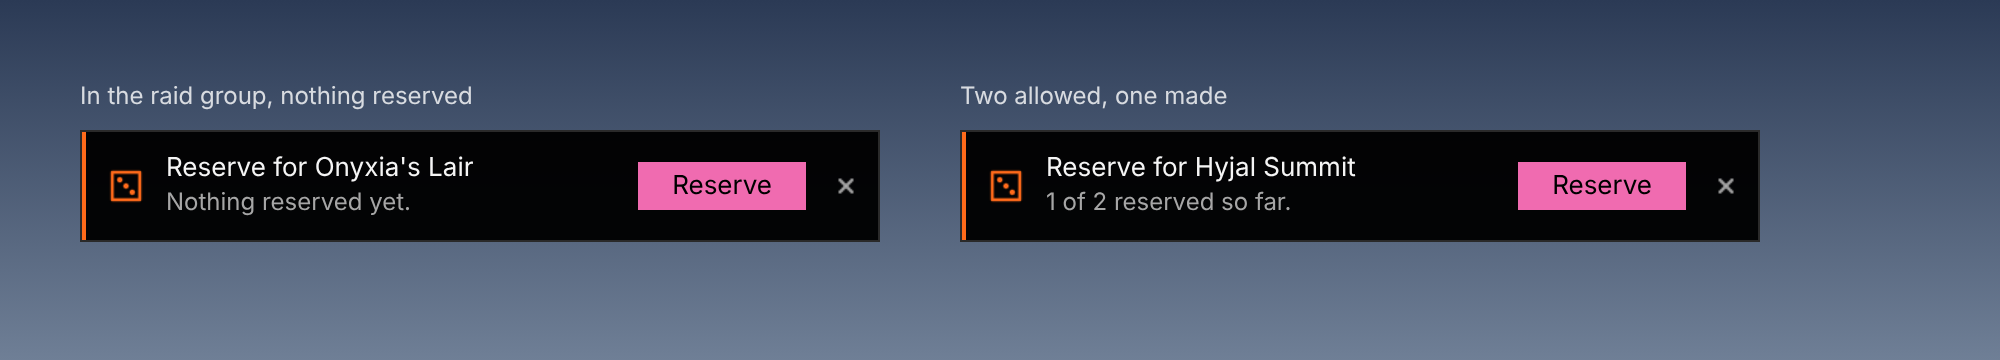
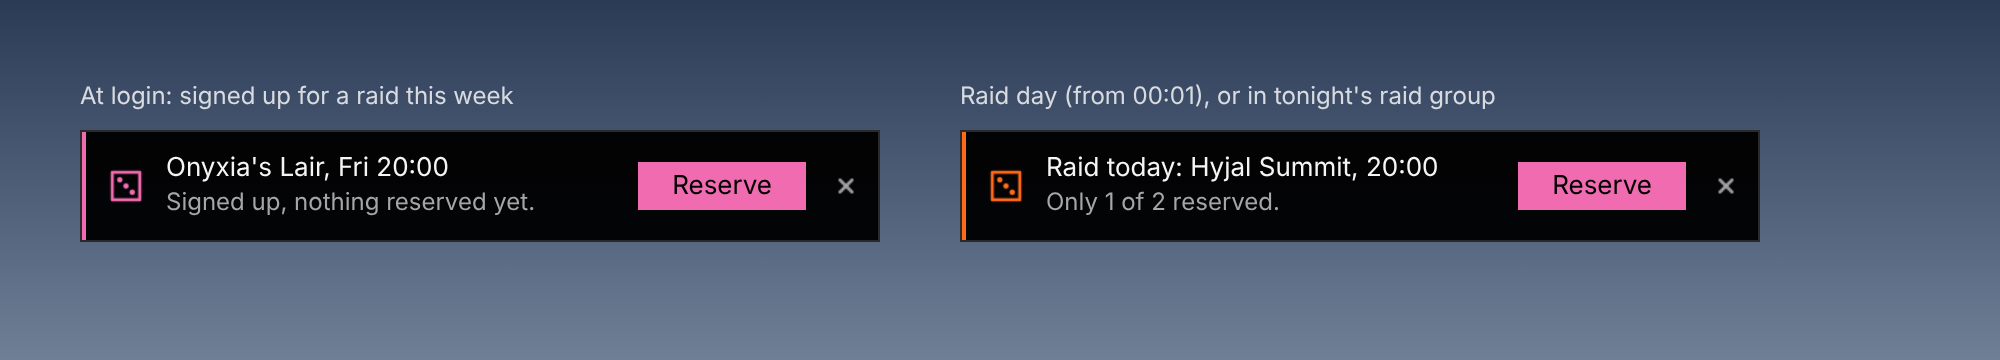
v0.9.1 (not released): two reserve reminders, at login and on raid day
Guild: a gentle one at logon when signed up for a raid without reserves,
and a stronger one on raid day / in the raid group. Owner: no sound; raid
day starts at 00:01 on the raid's day. Calm box once per login for a raid
in the next 7 days; orange box from 00:01 on raid day (signed up) or in
tonight's raid group, at login, on joining, then every 30 minutes.

Claude-Session: https://claude.ai/code/session_01A7mubGaccCgzXvJy7GP49A

diff --git a/preview/index.html b/preview/index.html
@@ -253,6 +253,8 @@
   .flightbox.remind { width: 400px; }
   .flightshot.remindshot { width: 1000px; }
   .flightbox.remind .edge { background: var(--spark); }
+  .flightbox.remind.calm .edge { background: var(--accent); }
+  .flightbox.remind.calm .fi { color: var(--accent); }
   .flightbox.remind .fi { color: var(--spark); -webkit-mask-image: var(--tex-icon-loot); mask-image: var(--tex-icon-loot); }
   .ttshot .tip { position: static; display: block; width: 330px; }
   .ttshot .cap { font: 600 12px "Chakra Petch SK", sans-serif; letter-spacing: .1em; text-transform: uppercase; color: #fff; margin-bottom: 10px; }
@@ -1061,9 +1063,9 @@ function flightShot() {
 }
 // v0.9.1 Reserve+ reminder: in a raid group for tonight's raid without (all) reserves.
 function reminderShot() {
-  const box = (title, text) => `<div class="flightbox remind"><i class="edge"></i><i class="mask fi"></i><div class="ft"><div>${title}</div><div class="dim">${text}</div></div>${btn("Reserve", "primary")}<div class="close"><i></i></div></div>`;
-  return `<div class="flightshot remindshot"><div><div class="cap">In the raid group, nothing reserved</div>${box("Reserve for Onyxia's Lair", "Nothing reserved yet.")}</div>
-    <div><div class="cap">Two allowed, one made</div>${box("Reserve for Hyjal Summit", "1 of 2 reserved so far.")}</div></div>`;
+  const box = (kind, title, text) => `<div class="flightbox remind ${kind}"><i class="edge"></i><i class="mask fi"></i><div class="ft"><div>${title}</div><div class="dim">${text}</div></div>${btn("Reserve", "primary")}<div class="close"><i></i></div></div>`;
+  return `<div class="flightshot remindshot"><div><div class="cap">At login: signed up for a raid this week</div>${box("calm", "Onyxia's Lair, Fri 20:00", "Signed up, nothing reserved yet.")}</div>
+    <div><div class="cap">Raid day (from 00:01), or in tonight's raid group</div>${box("", "Raid today: Hyjal Summit, 20:00", "Only 1 of 2 reserved.")}</div></div>`;
 }
 function copyWin() {
   const lines = ["Short Royalty roster", ...rosterRows().slice(0, 30).map((m) => `${m.name}  ${m.level}  ${m.rank}  ${m.spec || "-"}  ${m.ilvl || "-"}`)];

diff --git a/CLAUDE.md b/CLAUDE.md
@@ -29,14 +29,20 @@ talents, professions, recipes, attunements and reputations in game. Data is
 shared only over the guild **addon channel**: no website, no server, no uploads.
 
 ## Start here (handover, 14 Nov 2026)
-- **v0.9.1 (not released) also: reserve reminder** (guild: "if you are in
-  a raid group that you didn't do reserves to, you should get a warning").
-  `UI/ReserveReminder.lua`: pure `Rem.Needed(ev, mine, limit, locked,
-  inRaid, inCombat)` → box `ShortRoyaltyReserveReminder` (`SIZES.
-  reminderBox` 400 × 56, under the flight box; spark edge, loot icon,
-  Reserve → Loot page) + one chat line; on joining a raid group
-  (GROUP_ROSTER_UPDATE, debounced), every 60 s check, shown again after
-  `REPEAT` 600 s; hides when done/locked; never in combat. Officer
+- **v0.9.1 (not released) also: reserve reminders** (guild: a "passive
+  aggressive one" at logon if signed up without reserves, a stronger one on
+  raid day / in the raid group; owner: **no sound**, raid day = **from
+  00:01** on the raid's day, local time). `UI/ReserveReminder.lua`: pure
+  `Rem.Pick(raids, now, inRaid, tonightID, inCombat)` → `{kind = "login" |
+  "day", ev, title, text}` (day: signed y/t and DayStart(at)+60 ≤ now ≤
+  at + LootNight.AFTER, or in tonight's raid group; login: signed, raid
+  within `AHEAD` 7 days), `Rem.Raids(now, me)` (Board.Upcoming + this
+  character's sign-up/picks/limit/lock); `Rem:Check(reason)` login (+40 s,
+  either kind, once), joined (GROUP_ROSTER_UPDATE), tick (60 s; day kind
+  every `REPEAT` 1800 s), update (RESERVES_UPDATED hides when done). Box
+  `ShortRoyaltyReserveReminder` (`SIZES.reminderBox` 400 × 56, under the
+  flight box): accent for login, spark for day; Reserve → Loot page; one
+  chat line; never in combat. Officer
   **Remind in raid chat** on Loot night (`LT:RemindRaid`, `Rem.RaidChatText`,
   OpenChat "/ra …"). Picture `loot-reminder.png` (`shot=reminder`).
   TESTING 43–44.

diff --git a/CHANGELOG.md b/CHANGELOG.md
@@ -2,14 +2,20 @@
 
 ## v0.9.1 (not released yet): reserve reminders, and officer tools for the addon's creator
 
-- **Reserve reminder** (the guild asked): when you're in a raid group for
-  tonight's raid and haven't made all your reserves, a small box at the top
-  of the screen says so ("Reserve for Onyxia's Lair · Nothing reserved
-  yet"), with a **Reserve** button that opens the Loot page, plus one line
-  in chat. It comes back every 10 minutes until you reserve or an officer
-  locks reserves; never in combat. Reserve before entering the raid:
-  sharing pauses inside instances, so a reserve made inside reaches the
-  officers only after you leave.
+- **Reserve reminders** (the guild asked), each a small box at the top of
+  the screen with a **Reserve** button that opens the Loot page, plus one
+  line in chat:
+  - **At login** (calm): you're signed up or tentative for a raid in the
+    next 7 days and haven't made all your reserves ("Onyxia's Lair, Fri
+    20:00 · Signed up, nothing reserved yet").
+  - **On raid day** (orange): from 00:01 on the day of the raid if you're
+    signed up, and whenever you're in tonight's raid group ("Raid today:
+    Onyxia's Lair, 20:00 · Nothing reserved yet"). At login, on joining
+    the raid group, then every 30 minutes. No sound.
+  Both stop once you've reserved or an officer locks reserves, and never
+  show in combat. Reserve before entering the raid: sharing pauses inside
+  instances, so a reserve made inside reaches the officers only after you
+  leave.
 - **Remind in raid chat** (officers, Loot night): types "Reserves close
   soon. Not reserved yet: …" with the names of raiders without a reserve
   into raid chat, for you to send.

diff --git a/README.md b/README.md
@@ -157,7 +157,7 @@ reserve the same trinket for months and nobody new can take it from you.
 - **History:** every change, who made it and why: night bonuses, wins, changes by hand, moves, rule changes. Kept by everyone.
 - **Rolls:** reservers always beat everyone else; among them the highest *roll + points* wins; equal totals go to whoever has more points, then a re-roll. Only the first 1–100 roll of each player counts.
 - **Item tooltips** on a raid night: "Reserve+: Reserved by 3: Cat 120, Bob 30, Dan" (in your bags, the loot window, AtlasLoot…).
-- **Reminder** (v0.9.1): in a raid group for tonight's raid without all your reserves, a small box at the top of the screen says so, with a **Reserve** button. It comes back every 10 minutes until you reserve or an officer locks reserves. Reserve before going in: sharing pauses inside instances.
+- **Reminders** (v0.9.1), with a **Reserve** button: a calm one at login when you're signed up for a raid this week without your reserves, and an orange one on raid day (from 00:01, and when you join tonight's raid group) that comes back every 30 minutes. Both stop once you've reserved or an officer locks reserves. Reserve before going in: sharing pauses inside instances.
 
 <p align="center"><img src="docs/images/loot-reminder.png" alt="Reserve reminder boxes" width="80%"></p>
 

diff --git a/TESTING.md b/TESTING.md
@@ -162,10 +162,11 @@ addon read.
     Attendance, Loot shows Loot night and Rules. You can then do items
     30–41 yourself (a raid made by you, reserves, lock, a dungeon group's
     loot window, rolls, award, end of night).
-43. [ ] **Reminder:** with a raid made for tonight, join a raid group
-    without reserving: a box "Reserve for …" shows at the top of the screen
-    and a line in chat. **Reserve** opens the Loot page; once you've
-    reserved, it goes away. It doesn't show once an officer has locked
-    reserves, or in combat.
+43. [ ] **Reminders:** sign up for a raid later this week without
+    reserving, then log in: a calm (pink) box "Onyxia's Lair, Fri 20:00 ·
+    Signed up, nothing reserved yet". On the raid's day (after midnight) an
+    orange box "Raid today: …" at login, when you join the raid group, and
+    every 30 minutes. **Reserve** opens the Loot page; once you've reserved,
+    or an officer locks reserves, they stop. Not in combat, no sound.
 44. [ ] **Remind in raid chat** (Loot night, raid check): types the names of
     raiders without a reserve into raid chat; you press Enter.
